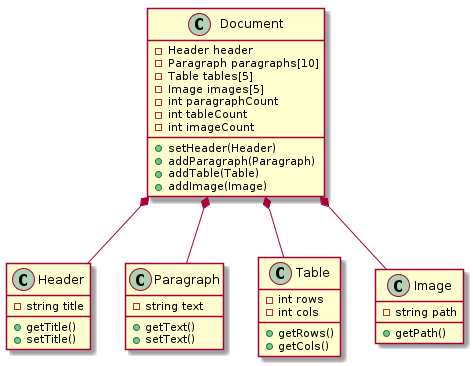
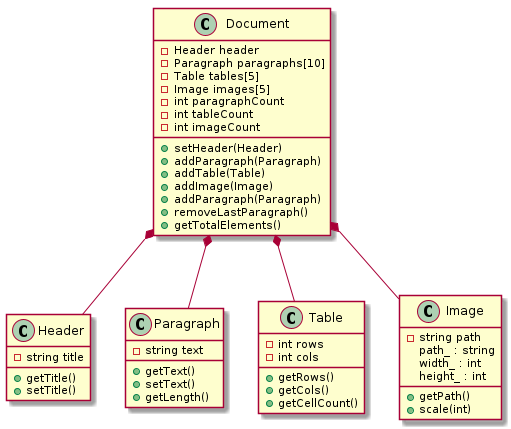
lab06 big fixes

Changed region(s): [[0.0, 0.0, 0.74, 0.9918], [0.74, 0.6311, 1.0, 1.0], [0.7104, 0.6011, 0.74, 0.6311]]

diff --git a/lab06/private/Document.cpp b/lab06/private/Document.cpp
@@ -1,44 +1,78 @@
 #include "Document.hpp"
+#include <iostream>
 
 Document::Document() {
-    paragraphCount = 0;
-    tableCount = 0;
-    imageCount = 0;
+    paragraph_Count = 0;
+    table_Count = 0;
+    image_Count = 0;
 }
 
 void Document::setHeader(const Header &header) {
-    this->header = header;
+    this->header_ = header;
 }
 
 void Document::addParagraph(const Paragraph &p) {
-    if (paragraphCount < 10) {
-        paragraphs[paragraphCount] = p;
-        paragraphCount++;
+    if (paragraph_Count < MAX_PARAGRAPHS) {
+        paragraphs_[paragraph_Count] = p;
+        paragraph_Count++;
+    } else {
+        std::cout << "Cannot add more paragraphs\n";
     }
 }
 
 void Document::addTable(const Table &t) {
-    if (tableCount < 5) {
-        tables[tableCount] = t;
-        tableCount++;
+    if (table_Count < 5) {
+        tables_[table_Count] = t;
+        table_Count++;
     }
 }
 
 void Document::addImage(const Image &i) {
-    if (imageCount < 5) {
-        images[imageCount] = i;
-        imageCount++;
+    if (image_Count < 5) {
+        images_[image_Count] = i;
+        image_Count++;
     }
 }
 
 int Document::getParagraphCount() const {
-    return paragraphCount;
+    return paragraph_Count;
 }
 
 int Document::getTableCount() const {
-    return tableCount;
+    return table_Count;
 }
 
 int Document::getImageCount() const {
-    return imageCount;
+    return image_Count;
+}
+
+bool Document::removeLastParagraph() {
+    if (paragraph_Count > 0) {
+        paragraph_Count--;
+        return true;
+    } else {
+        return false;
+    }
+}
+
+bool Document::removeLastTable() {
+    if (table_Count > 0) {
+        table_Count--;
+        return true;
+    } else {
+        return false;
+    }
+}
+
+bool Document::removeLastImage() {
+    if (image_Count > 0) {
+        image_Count--;
+        return true;
+    } else {
+        return false;
+    }
+}
+
+int Document::getTotalElements() const {
+    return paragraph_Count + table_Count + image_Count;
 }

diff --git a/lab06/public/Document.hpp b/lab06/public/Document.hpp
@@ -6,17 +6,22 @@
 #include "Table.hpp"
 #include "Image.hpp"
 
+
 class Document {
 private:
-    Header header;
+    Header header_;
 
-    Paragraph paragraphs[5];
-    Table tables[3];
-    Image images[5];
+    Paragraph paragraphs_[5];
+    Table tables_[3];
+    Image images_[5];
 
-    int paragraphCount;
-    int tableCount;
-    int imageCount;
+    int paragraph_Count;
+    int table_Count;
+    int image_Count;
+
+    static const int MAX_PARAGRAPHS = 10;
+    static const int MAX_TABLES = 5;
+    static const int MAX_IMAGES = 5;
 
 public:
     Document();
@@ -30,6 +35,12 @@ public:
     int getParagraphCount() const;
     int getTableCount() const;
     int getImageCount() const;
+
+    bool removeLastParagraph();
+    bool removeLastTable();
+    bool removeLastImage();
+
+    int getTotalElements() const;
 };
 
 #endif

diff --git a/lab06/private/Paragraph.cpp b/lab06/private/Paragraph.cpp
@@ -1,13 +1,17 @@
 #include "Paragraph.hpp"
 
-Paragraph::Paragraph() : text("") {}
+Paragraph::Paragraph() : text_("") {}
 
-Paragraph::Paragraph(const std::string &text) : text(text) {}
+Paragraph::Paragraph(const std::string &text) : text_(text) {}
 
 std::string Paragraph::getText() const {
-    return text;
+    return text_;
 }
 
 void Paragraph::setText(const std::string &text) {
-    this->text = text;
+    this->text_ = text;
+}
+
+int Paragraph::getLength() const {
+    return text_.length();
 }

diff --git a/lab06/private/Image.cpp b/lab06/private/Image.cpp
@@ -1,9 +1,15 @@
 #include "Image.hpp"
 
-Image::Image() : path("") {}
+Image::Image() : path_(""), width_(0), height_(0) {}
 
-Image::Image(const std::string &path) : path(path) {}
+Image::Image(const std::string &path, int w, int h)
+    : path_(path), width_(w), height_(h) {}
 
 std::string Image::getPath() const {
-    return path;
+    return path_;
+}
+
+void Image::scale(int factor) {
+    width_ *= factor;
+    height_ *= factor;
 }

diff --git a/lab06/public/Image.hpp b/lab06/public/Image.hpp
@@ -5,13 +5,17 @@
 
 class Image {
 private:
-    std::string path;
+    std::string path_;
+    int width_;
+    int height_;
 
 public:
     Image();
-    Image(const std::string &path);
+    Image(const std::string &path, int w, int h);
 
     std::string getPath() const;
+
+    void scale(int factor);
 };
 
 #endif

diff --git a/lab06/public/Paragraph.hpp b/lab06/public/Paragraph.hpp
@@ -5,7 +5,7 @@
 
 class Paragraph {
 private:
-    std::string text;
+    std::string text_;
 
 public:
     Paragraph();
@@ -13,6 +13,7 @@ public:
 
     std::string getText() const;
     void setText(const std::string &text);
+    int getLength() const;
 };
 
 #endif

diff --git a/lab06/public/Table.hpp b/lab06/public/Table.hpp
@@ -3,8 +3,8 @@
 
 class Table {
 private:
-    int rows;
-    int cols;
+    int rows_;
+    int cols_;
 
 public:
     Table();
@@ -12,6 +12,7 @@ public:
 
     int getRows() const;
     int getCols() const;
+    int getCellCount() const;
 };
 
 #endif

diff --git a/lab06/private/Table.cpp b/lab06/private/Table.cpp
@@ -11,3 +11,7 @@ int Table::getRows() const {
 int Table::getCols() const {
     return cols;
 }
+
+int Table::getCellCount() const {
+    return rows_ * cols_;
+}
